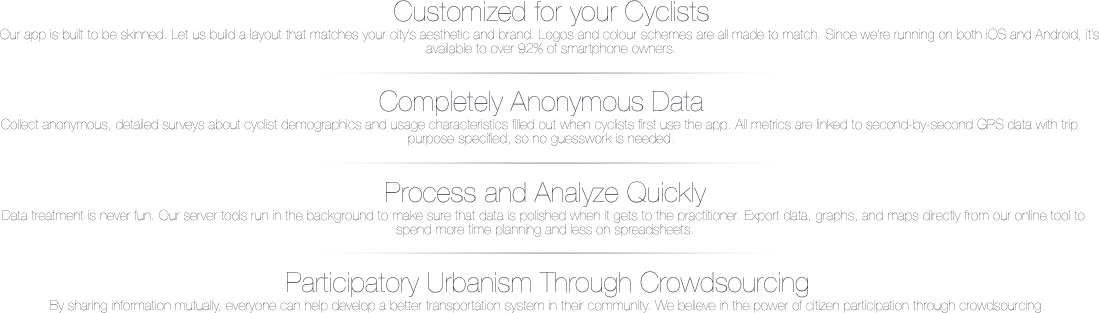
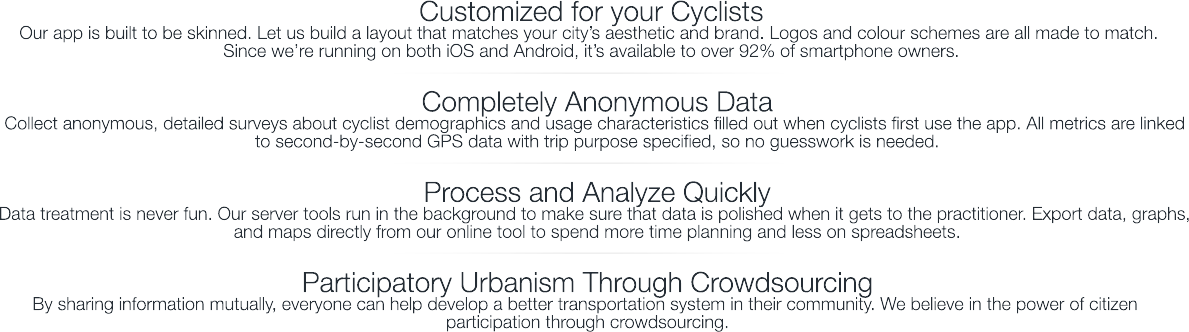
working well. need to add more pictures and data and continuous flow stuff

diff --git a/main.html b/main.html
@@ -7,7 +7,9 @@
 <!--
 body {
 	background-repeat: no-repeat;
-	font: 100%/1.4 Verdana, Arial, Helvetica, sans-serif, "Helvetica Neue";
+	font-family: "HelveticaNeue-Light", "Helvetica Neue Light", "Helvetica Neue", Helvetica, Arial, "Lucida Grande", sans-serif; 
+	font-weight: 300;
+	/*font: 100%/1.4 Verdana, Arial, Helvetica, sans-serif, "Helvetica Neue";*/
 	margin: 0;
 	padding: 0;
 	min-width: 1024px;
@@ -42,41 +44,31 @@ a:hover, a:active, a:focus { /* this group of selectors will give a keyboard nav
 
 /* ~~ this container surrounds all other divs giving them their percentage-based width ~~ */
 .container {
-	width:auto;
-	min-width: 1024px;
+	width:100%;
 	height:auto;
 	margin: auto;
 }
 .content {
 	position:relative;
 	width: 90%;
-	max-width: 1440px;/* a max-width may be desirable to keep this layout from getting too wide on a large monitor. This keeps line length more readable. IE6 does not respect this declaration. */
-	min-width: 922px;/* a min-width may be desirable to keep this layout from getting too narrow. This keeps line length more readable in the side columns. IE6 does not respect this declaration. */
-	background-color: transparent;
 	margin: auto; /* the auto value on the sides, coupled with the width, centers the layout. It is not needed if you set the .container's width to 100%. */
 	height: auto;	
 }
 
 .container-blue {
-	position:relative;
 	width: 100%;
-	min-width: 780px;/* a min-width may be desirable to keep this layout from getting too narrow. This keeps line length more readable in the side columns. IE6 does not respect this declaration. */
 	background-image: url('images/background_blue.png');
 	background-size: cover;
-	height: auto;
 }
 .container-light-grey {
-	position:relative;
-	width: 100%;
-	min-width: 780px;/* a min-width may be desirable to keep this layout from getting too narrow. This keeps line length more readable in the side columns. IE6 does not respect this declaration. */
+	width: auto;
 	background-image: url('images/background_grey.png');
 	background-size: cover;
-	height: auto;
 }
 
 
 .header {
-	position:relative;
+	width: 100%;
 	padding: 10px 0;
 	height:80px;
 	background-image:url('images/banner.png');
@@ -102,6 +94,7 @@ a:hover, a:active, a:focus { /* this group of selectors will give a keyboard nav
 
 /* ~~ The footer ~~ */
 .footer {
+	width:100%;
 	background-image: url('images/Footer.png');
 	background-size: cover;
 }
@@ -127,37 +120,70 @@ a:hover, a:active, a:focus { /* this group of selectors will give a keyboard nav
 
 .div_left{
     float:left;
-    width:573px;
     padding-top: 50px;
 }
 .div_middle {
     overflow: hidden;
-	float:left;
+    content: '.';
+    visibility: hidden;
+	display: block;
+	width:500px;
+	height:599px;
 }
 .div_right {
 	float:left;
-	width:459px
+	width:459px;
 	height:599px;
 }
 
 .slideshow {
 	position: relative;
-	width: 359px;
 	height: 599px;
 
 }
-.slideshow img {
-	position:absolute;
-	left:0;
-	top:0;
+.slideshow images {
+	position:relative;
 	}
+
+img.slideshowimg {
+	position:absolute;
+	top: 0px;
+	left: 0px;
+}
 	
 img.centred {
 display: block;
 margin-left: auto;
 margin-right: auto;
 }
+
+img.divider {
+	display: block;
+	margin-left: auto;
+	margin-right: auto;
+	margin-top: 20px;
+	margin-bottom: 20px;
+}
+
+text.heading{
+
+	font-size: 28px;
+	text-align: center;
+	margin: auto;
+	display: block;
+	color: #242d34;
+}
+
+text.body{
+	font-size: 18px;
+	text-align: center;
+	margin: auto;
+	display: block;
+	color: #242d34;
+
 -->
+}
+
 </style>
 
 <script src="http://ajax.googleapis.com/ajax/libs/jquery/1/jquery.min.js"></script>
@@ -167,31 +193,53 @@ margin-right: auto;
 
 <body>
 	<div class="container">		
+
 		<div class="header">
 			<a href="#"><img src="images/Betamovement-logo1.png" alt="BetaMovement" name="logo" width="364" height="80" id="logo" />
 			</a> 
-			<img src="images/Slogan.png" alt="slogan" name="slogan" width="573" height="59" id="slogan"/>
-            </div>
+			<img src="images/Slogan.png" alt="slogan" name="slogan" width="573" height="59" id="slogan" style="float:right; margin-top:10px;margin-right:8px"/>
+        </div>
 
 		<div class="container-blue">
-					<img src="images/intro.png" name="intro" width="668px" height="226px" style="margin-top:100px;float:left;">
-			
-              <div class="slideshow" id="slideshow" style="float:left;">
-                  <img src="images/Screenshot_main.png"/>
-                  <img src="images/Screenshot_map.png"/>
-                  <img src="images/Screenshot_menu.png"/>
-              </div>
+			<div class="content" >
+			<div style="width: 1024px;margin: 0 auto;">
+				<div style="width:600px;float:left;">
+					<img src="images/intro.png" name="intro" style="margin-top:100px;"/>
+					<img class="centred" src="images/Available-for.png" style="margin-top:50px;"/>
+				</div>
+	            <div class="slideshow" id="slideshow" style="float:left;">
+	                <img class="slideshowimg" src="images/Screenshot_main.png">
+	                <img class="slideshowimg" src="images/Screenshot_map.png">
+	                <img class="slideshowimg" src="images/Screenshot_menu.png">
+	            </div>
+            </div>
+            </div>
+            <div class="clearfloat">
 		</div>
-		
+	</div>
+
 		<div class="container-light-grey">
 			<div class="content">
-				Test 123
+				<text class="heading">Customized for your Cyclists</text><br/>
+				<text class="body">Our app is built to be skinned. Let us build a layout that matches your city’s aesthetic and brand. Logos and colour schemes are all made to match. Since we’re running on both iOS and Android, it’s available to over 92% of smartphone owners.</text>
+				<img class="divider" src="images/divider.png">
+				<text class="heading">Completely Anonymous Data</text><br/>
+				<text class="body">Collect anonymous, detailed surveys about cyclist demographics and usage characteristics filled out when cyclists first use the app. All metrics are linked to second-by-second GPS data with trip purpose specified, so no guesswork is needed.</text>
+				<img class="divider" src="images/divider.png">
+				<text class="heading">Process and Analyze Quickly</text><br/>
+				<text class="body">Data treatment is never fun. Our server tools run in the background to make sure that data is polished when it gets to the practitioner. Export data, graphs, and maps directly from our online tool to spend more time planning and less on spreadsheets.</text>
+				<img class="divider" src="images/divider.png">
+				<text class="heading">Participatory Urbanism Through Crowdsourcing</text><br/>
+				<text class="body">By sharing information mutually, everyone can help develop a better transportation system in their community. We believe in the power of citizen participation through crowdsourcing.</text>
 			</div>
 		</div>
+
 		<div class="footer">
-			<p>Footer</p>
+        		
+            </div>
 		</div>
-				<!-- end .container -->
+		<a href="mailto:inquiries@beta-movement.com?Subject=More%20Information" target="_top"">
+		<img src="images/contact.png" style="position:fixed;top:100px;right:100px"/>
 	</div>
 </body>
 </html>
